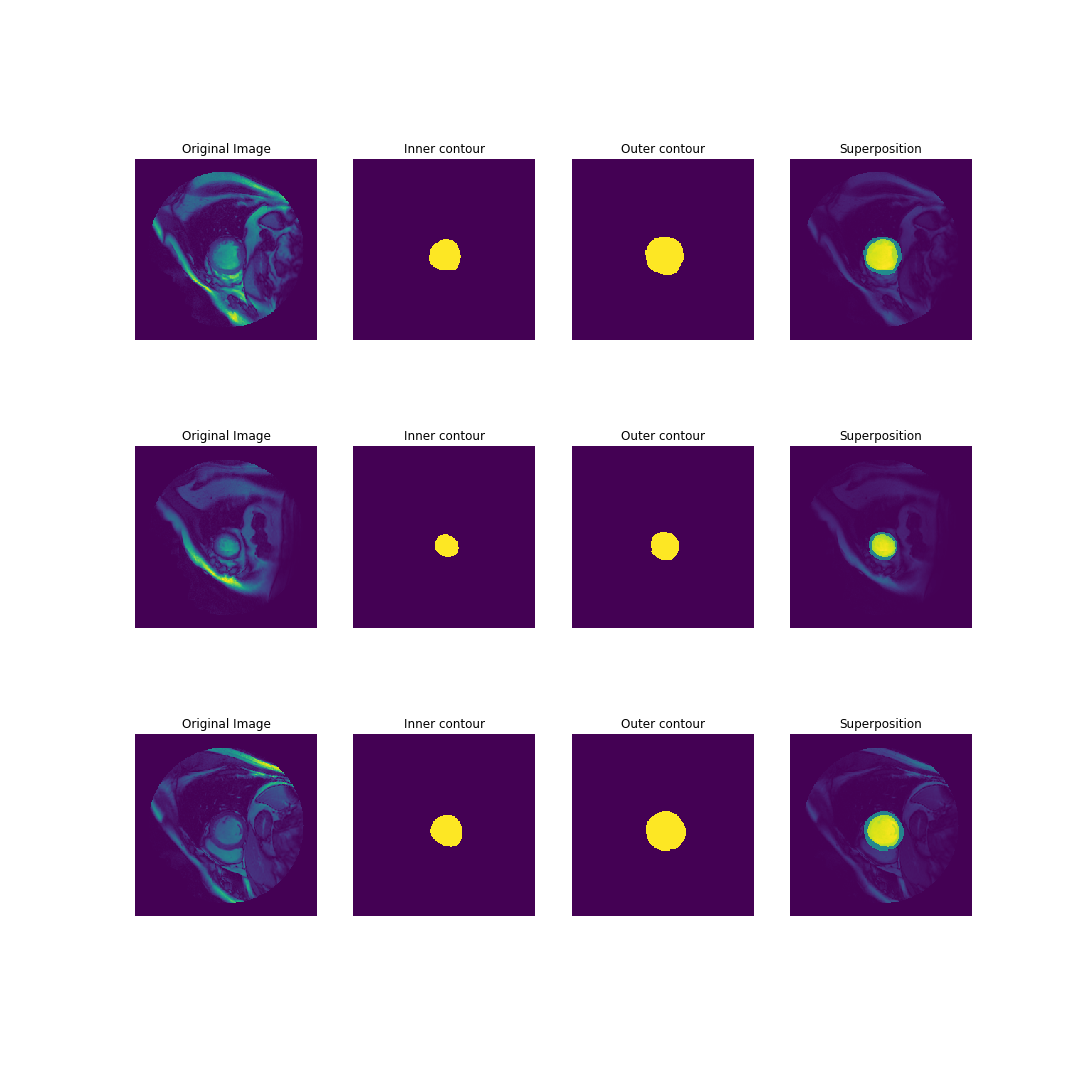
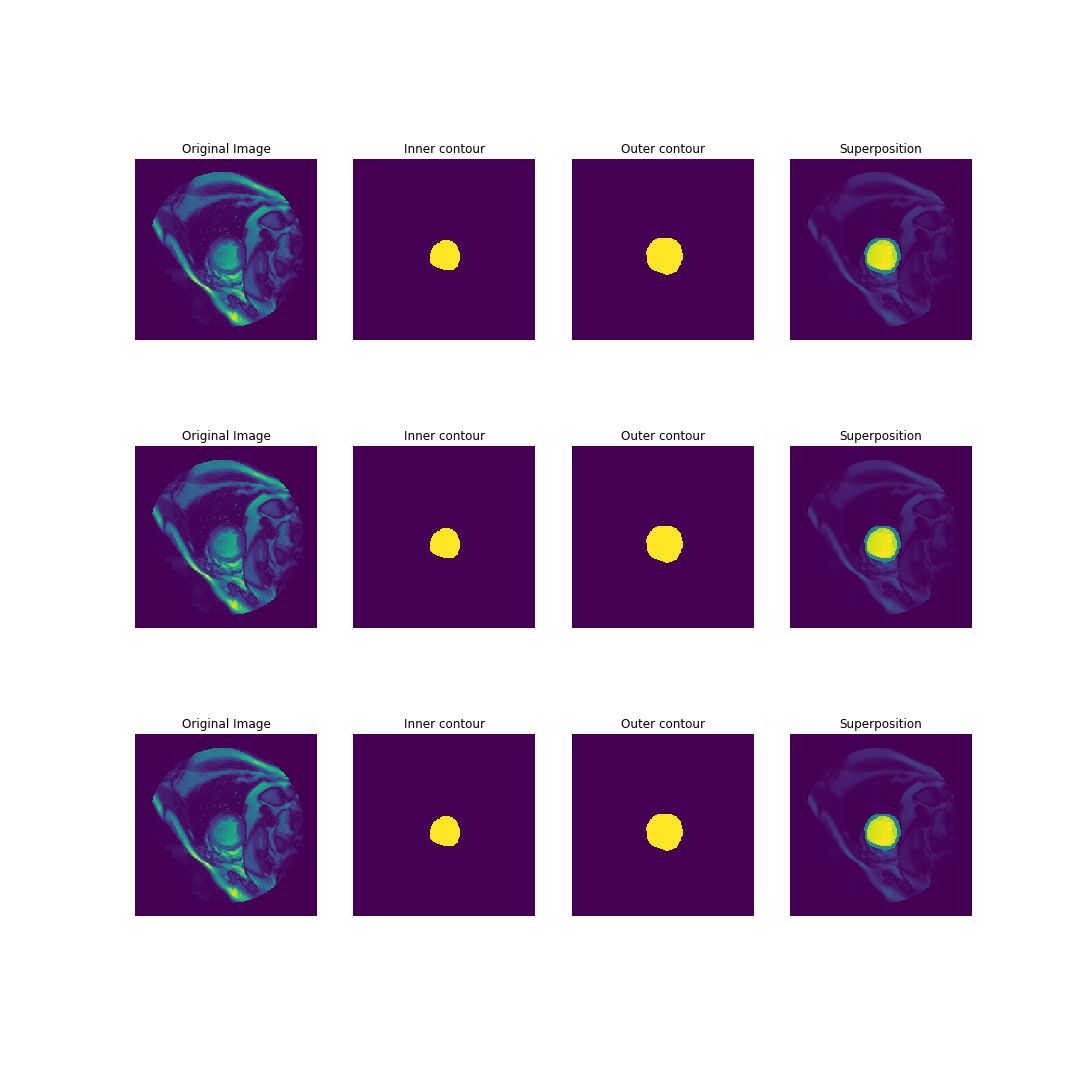
segmentation

diff --git a/utils/generator.py b/utils/generator.py
@@ -56,7 +56,9 @@ def parse_function(image_file, labels):
     
     dcm_dict = parse_dicom_file(image_file)
     image = dcm_dict["pixel_data"]
-
+    image = image.astype("float")
+    image *= 255.0/image.max()
+    
     i_contour_file = labels[image_file][0]
     i_coords_lst = parse_contour_file(i_contour_file)
     i_mask = poly_to_mask(polygon=i_coords_lst, width=image.shape[0], height=image.shape[1])

diff --git a/utils/parsing.py b/utils/parsing.py
@@ -70,6 +70,6 @@ def poly_to_mask(polygon, width, height):
 
     # http://stackoverflow.com/a/3732128/1410871
     img = Image.new(mode='L', size=(width, height), color=0)
-    ImageDraw.Draw(img).polygon(xy=polygon, outline=2, fill=1)
+    ImageDraw.Draw(img).polygon(xy=polygon, outline=0, fill=1)
     mask = np.array(img).astype(bool)
     return mask

diff --git a/config.py b/config.py
@@ -7,6 +7,6 @@ class Config:
     """
     # data
     data_path = 'final_data'
-    batch_size = 1
+    batch_size = 46
     shuffle = False
     epochs = 10
